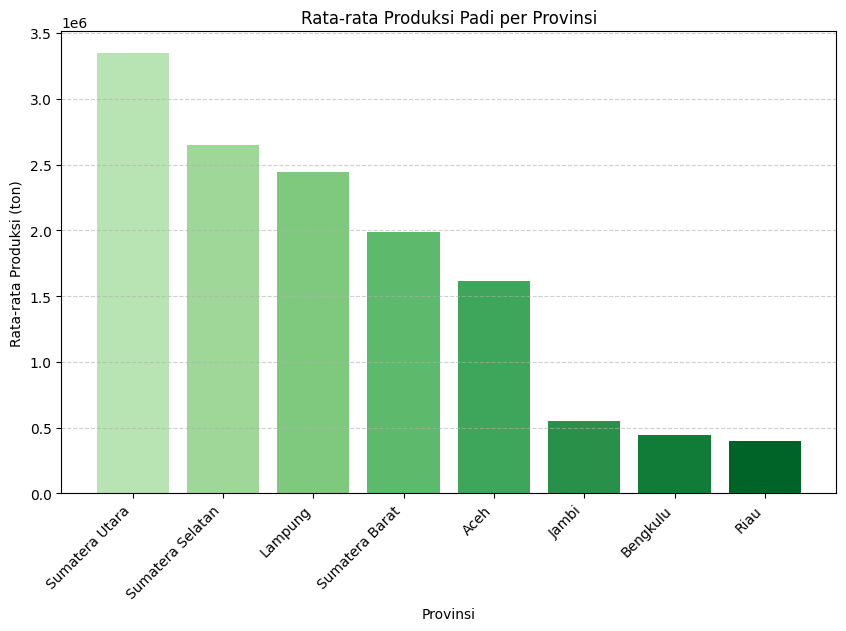
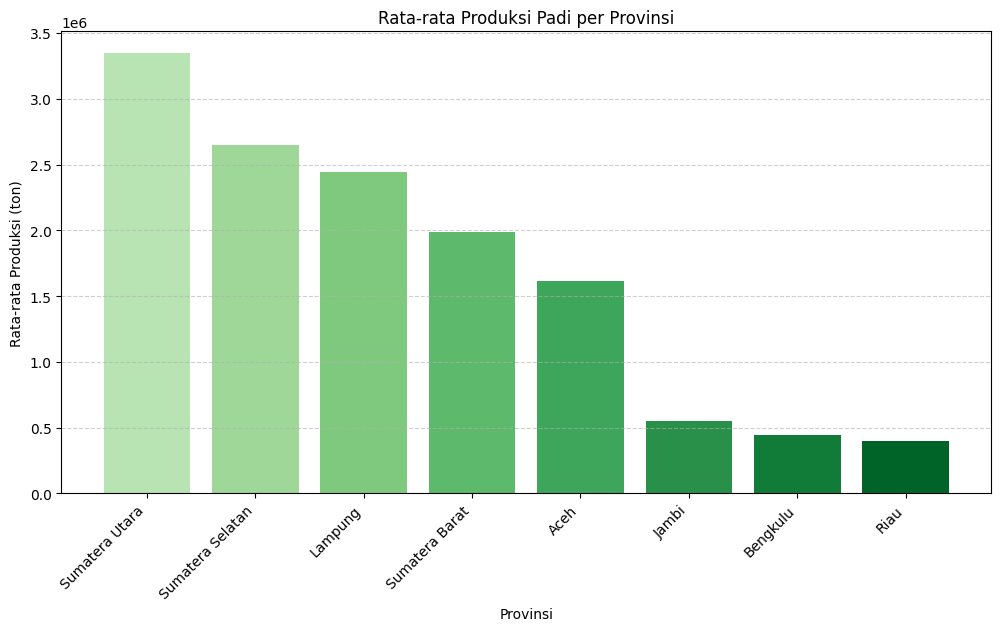
cart korelasi

diff --git a/templates/dashboard.html b/templates/dashboard.html
@@ -101,7 +101,7 @@
 
         <!-- Grafik 2: Rata-rata Produksi per Provinsi -->
         <div class="row">
-            <div class="col-md-6">
+            <div class="col-md-12">
                 <div class="chart-card">
                     <h4>📊 Rata-rata Produksi per Provinsi</h4>
                     <img src="{{ img_rata }}" alt="Rata-rata Produksi">
@@ -113,6 +113,15 @@
                     <img src="{{ img_pie }}" alt="Proporsi Produksi 2020">
                 </div>
             </div> -->
+        </div>
+
+        <div class="row">
+            <div class="col-md-12">
+                <div class="chart-card">
+                    <h4>🔵 Korelasi: Luas Panen vs Produksi</h4>
+                    <img src="{{ img_scatter }}" alt="Korelasi Luas Produksi">
+                </div>
+            </div>
         </div>
 
         <!-- Grafik 3: Scatter Plot dan Histogram -->

diff --git a/app.py b/app.py
@@ -67,7 +67,7 @@ def plot_tren_produksi():
 
 def plot_rata_produksi():
     rata_produksi = data.groupby('Provinsi')['Produksi'].mean().sort_values(ascending=False)
-    plt.figure(figsize=(10, 6))
+    plt.figure(figsize=(12, 6))
     warna = plt.cm.Greens(np.linspace(0.3, 0.9, len(rata_produksi)))
     plt.bar(rata_produksi.index, rata_produksi.values, color=warna)
     plt.xlabel('Provinsi')
@@ -76,6 +76,32 @@ def plot_rata_produksi():
     plt.xticks(rotation=45, ha='right')
     plt.grid(axis='y', linestyle='--', alpha=0.6)
     return save_plot_as_png('rata_produksi.png')
+
+def plot_korelasi_luas_produksi():
+    plt.figure(figsize=(12, 6))
+    daftar_provinsi = data['Provinsi'].unique()
+    colors = plt.cm.get_cmap('tab10', len(daftar_provinsi))
+
+    for i, prov in enumerate(daftar_provinsi):
+        subset = data[data['Provinsi'] == prov]
+        
+        plt.scatter(
+            subset['Luas Panen'], 
+            subset['Produksi'], 
+            alpha=0.7, 
+            label=prov,
+            color=colors(i),
+            edgecolors='w', 
+            s=60            
+        )
+
+    plt.title('Korelasi Luas Panen vs Produksi Padi Berdasarkan Provinsi', fontsize=14)
+    plt.xlabel('Luas Panen (ha)', fontsize=12)
+    plt.ylabel('Produksi (ton)', fontsize=12)
+    plt.legend(title="Provinsi", bbox_to_anchor=(1.05, 1), loc='upper left')
+    plt.grid(True, linestyle='--', alpha=0.5)
+    plt.tight_layout()
+    return save_plot_as_png('korelasi_luas.png')
 
 # ==============================================
 # 4. ROUTE UTAMA DASHBOARD
@@ -86,6 +112,7 @@ def dashboard():
     try:
         img_tren = plot_tren_produksi()
         img_rata = plot_rata_produksi()
+        img_scatter = plot_korelasi_luas_produksi()
     except Exception as e:
         return f"Terjadi error saat membuat grafik: {str(e)}", 500
 
@@ -100,6 +127,7 @@ def dashboard():
         'dashboard.html',
         img_tren=img_tren,
         img_rata=img_rata,
+        img_scatter=img_scatter,
         stats_produksi=stats_produksi,
         stats_luas=stats_luas,
         stats_curah=stats_curah,
